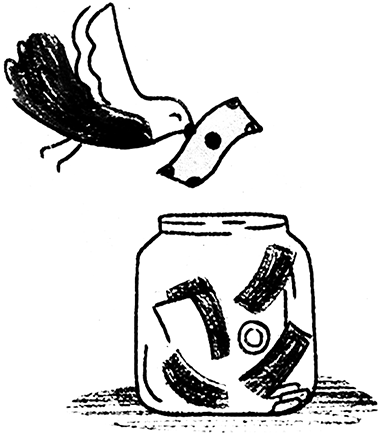
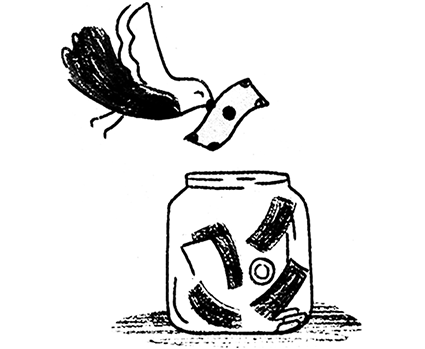
ubah ubahan

Changed region(s): [[0.1728, 0.4871, 1.0, 1.0], [0.0, 0.0, 0.6911, 0.4298], [0.0864, 0.3438, 0.1152, 0.3725]]

diff --git a/main.js b/main.js
@@ -31,11 +31,9 @@
 
 let bg = 0;
 let il = 0;
-
 function bgChg() {
   let bgColors = document.getElementById("banner");
   let imgIl = document.getElementById("image");
-  // let bgColor1 = ["#f1601e", "#dbc9ff", "#f7dbe3", "#91a8b3", "#01b679"];
   let bgColor = ["#01b679", "#91a8b3", "#f1601e", "#dbc9ff", "#f7dbe3"];
   let images = [
     "assets/img/1.png",
@@ -46,8 +44,6 @@ function bgChg() {
   ];
   bgColors.style.backgroundColor = bgColor[bg];
   imgIl.setAttribute("src", images[il]);
-  // bg = (bg + 1) % bgColor.length;
-  // il = (il + 1) % images.length;
   bg++;
   if (bg === bgColor.length) {
     bg = 0;

diff --git a/index.html b/index.html
@@ -57,7 +57,7 @@
                     <p>Buka puasa bersama dan santunan anak-anak Yatim <br> di Desa Cibuntu, Kecamatan Ciampea,
                         Kabupaten Bogor</p>
                 </div>
-                <div class="illus col-md-3 justify-content-center align-items-center ps-3">
+                <div class="illus col-md-3 justify-content-center align-items-center pt-5">
                     <img src="" alt="" id="image">
                 </div>
             </div>

diff --git a/style.css b/style.css
@@ -106,6 +106,7 @@ html {
 }
 
 .banner img {
+  padding-left: 70px;
   position: relative;
   object-fit: cover;
 }
